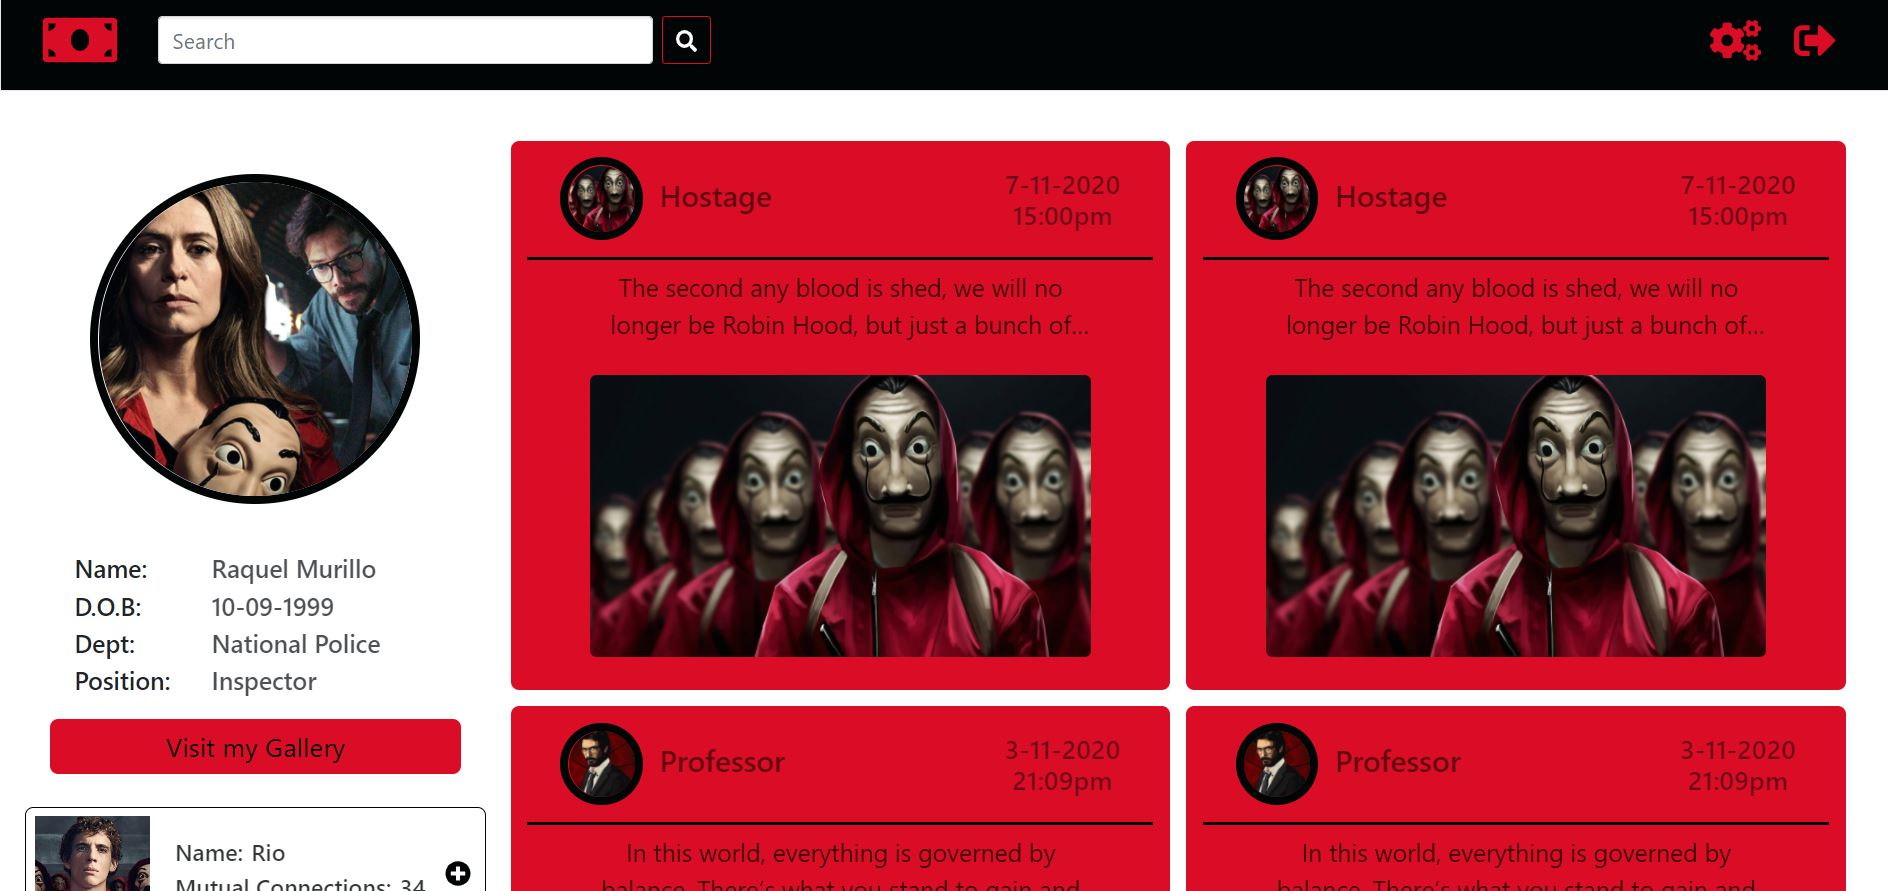
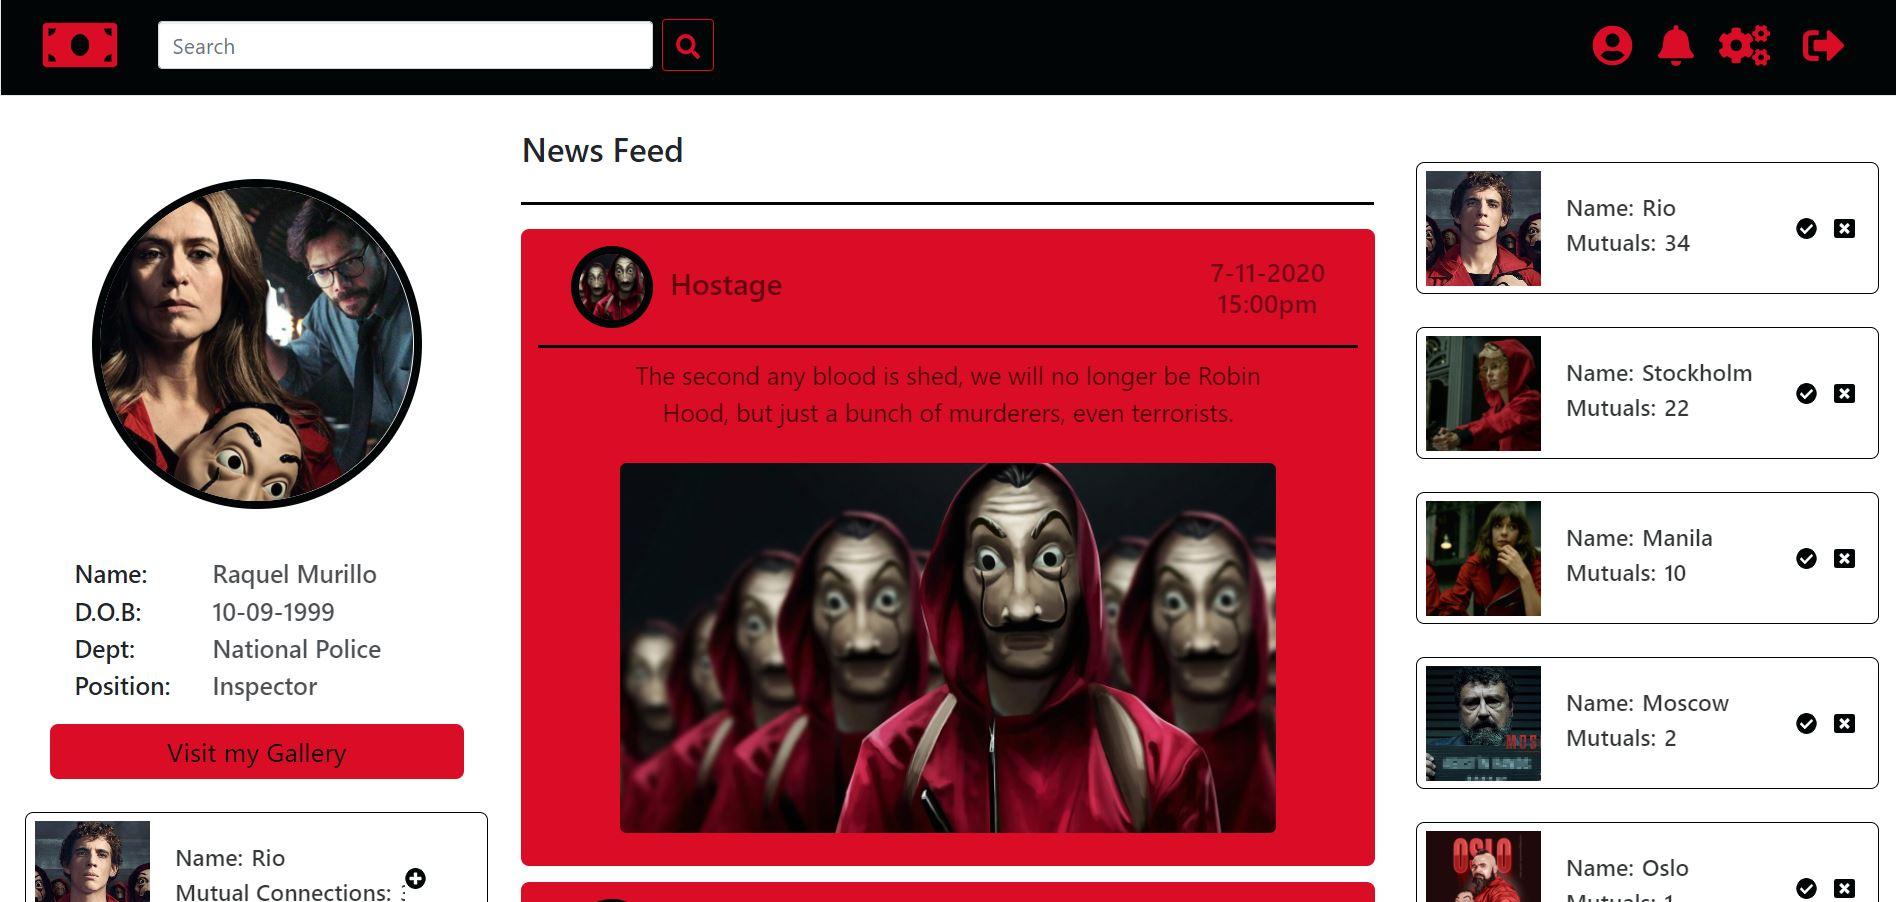
my-app

diff --git a/src/Components/Sidebar-2/section-2/RightSidebar.js b/src/Components/Sidebar-2/section-2/RightSidebar.js
@@ -1,0 +1,49 @@
+import React, { Component } from 'react'
+import '../../../../node_modules/bootstrap/dist/css/bootstrap.min.css'
+import list from './Requests'
+import './Req.css'
+import { FontAwesomeIcon } from '@fortawesome/react-fontawesome'
+import { faCheckCircle,  faWindowClose } from '@fortawesome/free-solid-svg-icons'
+
+export class Mutual extends Component {
+    render() {
+        return (
+            <div className="mt-4 text-center">
+                {list.map(list => (
+                    <div className="suggestion-item col-12 p-0">
+                        <div className="pic-block "> 
+                            <img className="sug-pic" src={list.url1}></img>
+                        </div>
+                        <div className="text-block p-2  d-flex align-items-center">
+                            <div className="col-11 p-0">        
+                                <div className=" suggestion-details text-truncate col-10 p-0">
+                                    <div className="mcon-det">
+                                        <h2>
+                                            Name:
+                                        </h2>                             
+                                        <h3 className="">
+                                            {list.name}
+                                        </h3>
+                                    </div>
+                                    <div className="mcon-det">
+                                        <h2>
+                                            Mutuals:
+                                        </h2> 
+                                        <h3>
+                                            {list.mconnection}
+                                        </h3>                                               
+                                    </div>
+                                </div>
+                            </div>
+                            <FontAwesomeIcon icon={faCheckCircle} className="justify-content-flex-end add-icon col-1 p-0 "></FontAwesomeIcon>
+                            <FontAwesomeIcon icon={faWindowClose} className="justify-content-flex-end add-icon col-1 p-0 ml-3"></FontAwesomeIcon>                        
+                        </div>
+                    </div>
+                ))}
+
+            </div>
+        )
+    }
+}
+
+export default Mutual;

diff --git a/src/Components/Sidebar-2/section-2/Requests.js b/src/Components/Sidebar-2/section-2/Requests.js
@@ -1,0 +1,12 @@
+const list = [
+  {name:'Rio', mconnection:'34', url1:'https://images.indianexpress.com/2020/08/Miguel-Herr%C3%A1n-money-heist-759-3.jpg'},
+  {name:'Stockholm', mconnection:'22', url1:'https://www.pinkvilla.com/files/styles/contentpreview/public/money_heist_fans_point_out_stockholms_statement_about_her_sister_question_her_whereabouts.jpg?itok=yGOyVCsH'},
+  {name:'Manila', mconnection:'10', url1:'https://hips.hearstapps.com/hmg-prod.s3.amazonaws.com/images/manila-nm-1586182375.jpg'},
+  {name:'Moscow', mconnection:'2', url1:'https://static1.srcdn.com/wordpress/wp-content/uploads/2020/04/Money-Heist-Moscow-Mugshot.jpg?q=50&fit=crop&w=740&h=370'},
+  {name:'Oslo', mconnection:'1', url1:'https://cdn.dribbble.com/users/6050199/screenshots/14212041/olso_untuk_dribbble.jpg'},
+  {name:'Helsinki', mconnection:'1', url1:'https://i.pinimg.com/originals/df/f9/23/dff92320e09a4f9d24d7d627e05779cc.jpg'}
+];
+
+
+
+export default list 

diff --git a/src/pages/mainpage.jsx b/src/pages/mainpage.jsx
@@ -5,6 +5,7 @@ import '../Components/App/App.css';
 import Nav from '../Components/Navbar/Navbar';
 import Profile from '../Components/Profile/Profile';
 import Feed from '../Components/Feed/Feed';
+import Requests from '../Components/Sidebar-2/Profile'
 
 export class mainpage extends Component {
     render() {
@@ -13,7 +14,8 @@ export class mainpage extends Component {
                 <Nav></Nav>
                 <div className="col-12">
                     <div className="profile col-sm-12 col-md-3 p-0"><Profile></Profile></div>
-                    <div className="feed col-sm-12 col-md-9 p-0"><Feed></Feed></div>
+                    <div className="feed col-sm-12 col-md-6 p-0"><Feed></Feed></div>
+                    <div className="profile col-sm-12 col-md-3 p-0"><Requests></Requests></div>
                 </div>
             </div>
         )

diff --git a/src/Components/Sidebar-2/section-2/Req.css b/src/Components/Sidebar-2/section-2/Req.css
@@ -1,0 +1,50 @@
+.sug-pic{
+    width: 100%;
+    height: 80px;
+    padding: 0.5rem ;
+    object-fit: cover;
+    border-radius: 5px;
+}
+
+.suggestion-item{
+    display: flex;
+    height: 80px;
+    align-items: center;
+    border: 1px solid #000505;
+    border-radius: 5px;
+    margin: 2rem 0rem;
+}
+
+.pic-block{
+    width: 80px;
+}
+.text-block{
+    width:60%;
+}
+
+
+.suggestion-details{
+    text-align: left;
+    color: #000505;
+    padding: 0.5rem;
+}
+
+.suggestion-details>div{
+    display: flex;
+}
+.suggestion-details>div h2{
+    font-size: 14px;
+    color: #000505;
+    padding: 0 0.5rem;
+}
+
+.suggestion-details>div h3{
+    font-size: 14px;
+    opacity: 0.8;
+    
+}
+
+.add-icon{
+    font-size: 25px;
+    color: #000505;
+}

diff --git a/src/Components/Feed/Feed.js b/src/Components/Feed/Feed.js
@@ -8,9 +8,8 @@ export class Feed extends Component {
     render() {
         return (
             <div className="col-12">
-                <div className="col-md-6 col-sm-12 pr-2 p-0"><Feedcol></Feedcol></div>
-                
-                <div className="col-md-6 col-sm-12 pl-2 p-0"><Feedcol></Feedcol></div>
+                <h1 className="ml-2 mr-3">News Feed</h1>
+                <div className="col-md-12 col-sm-12 feedcol pl-2 p-0"><Feedcol></Feedcol></div>
 
             </div>
         )

diff --git a/src/Components/Sidebar-2/Profile.js b/src/Components/Sidebar-2/Profile.js
@@ -1,0 +1,15 @@
+import React, { Component } from 'react'
+import '../../../node_modules/bootstrap/dist/css/bootstrap.min.css'
+
+import Requests from './section-2/RightSidebar'
+export class Profile extends Component {
+    render() {
+        return (
+            <div>
+                <Requests></Requests>
+            </div>
+        )
+    }
+}
+
+export default Profile

diff --git a/src/Components/Feed/Feed.css b/src/Components/Feed/Feed.css
@@ -61,3 +61,12 @@
 .upload{
     text-align: center;
 }
+
+.feedcol{
+    max-height: 180vh;
+    overflow: scroll;
+}
+
+::-webkit-scrollbar {
+    width: 10px;
+  }

diff --git a/README.md b/README.md
@@ -20,9 +20,6 @@ The page is divided into two sections, the profile section with suggestions for 
 
 You can scroll to view the rest of the feed.
 
-![myimage-alt-tag](https://github.com/KshishAshish/Kritkal-Solutions/blob/master/src/images/Readme-home2.JPG)
-
-
 ## My Profile
 
 Here we can see previously uploaded Photos by us as a image gallery using react-image-gallery.
